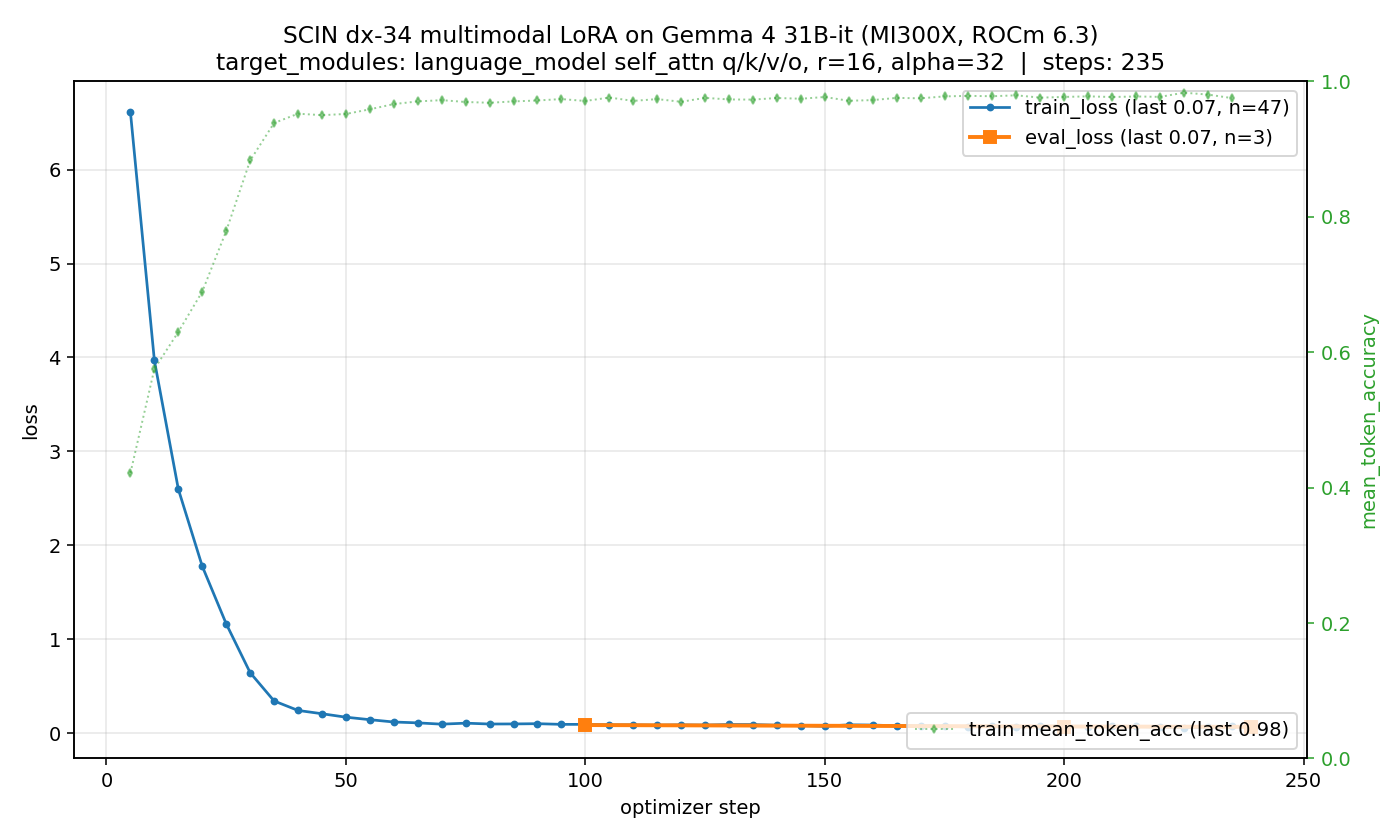
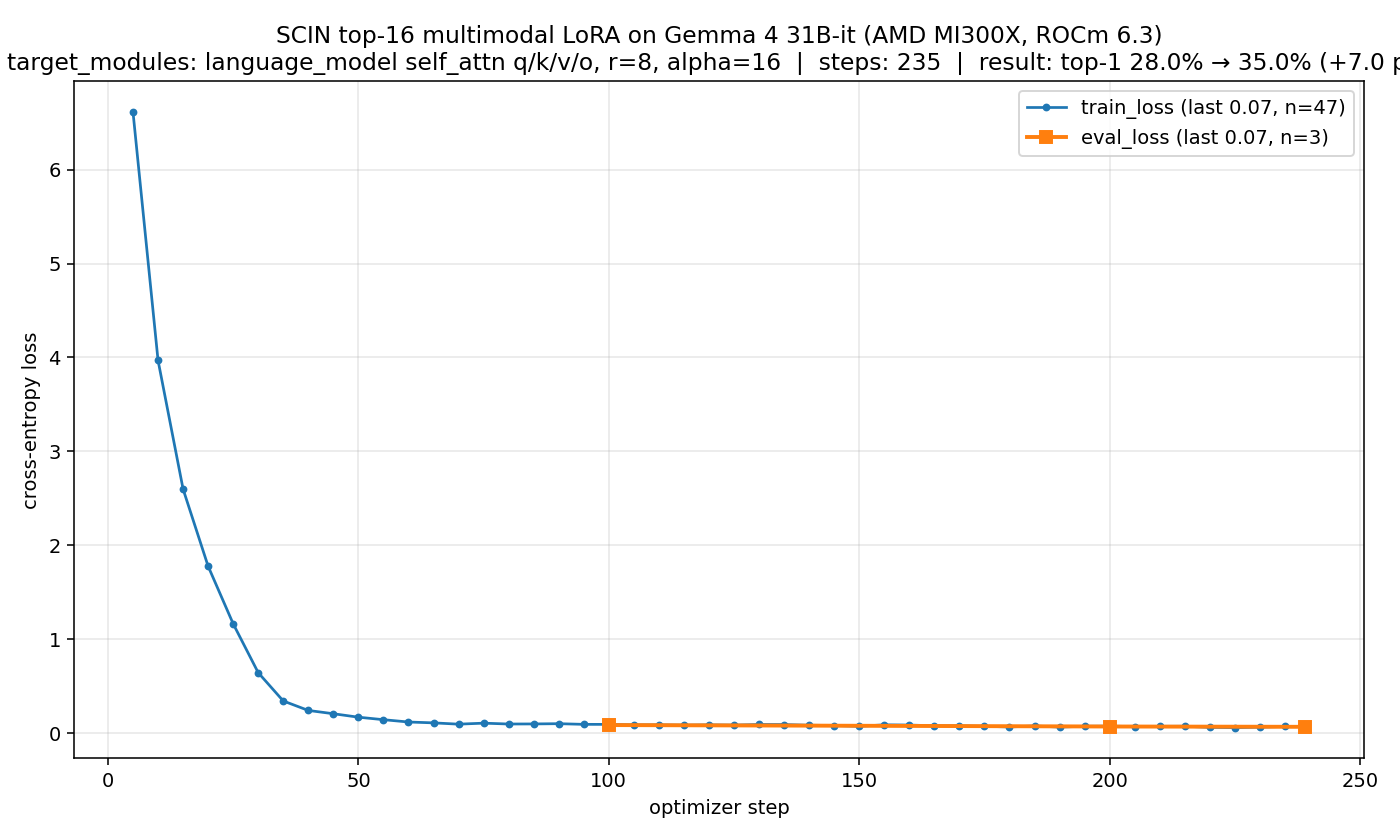
session checkpoint: 2026-05-10 08:16

diff --git a/scripts/plot_scin_loss.py b/scripts/plot_scin_loss.py
@@ -35,25 +35,18 @@ def main() -> int:
                 "-s", label=f"eval_loss (last {evals[-1]['eval_loss']:.2f}, n={len(evals)})",
                 color="#ff7f0e", lw=2)
 
-    # Token-accuracy on a secondary axis if present
-    if any("mean_token_accuracy" in r for r in train):
-        ax2 = ax.twinx()
-        ax2.plot([r["step"] for r in train],
-                 [r.get("mean_token_accuracy", 0) for r in train],
-                 ":d", color="#2ca02c", alpha=0.5,
-                 label=f"train mean_token_acc (last {train[-1].get('mean_token_accuracy', 0):.2f})",
-                 markersize=3, lw=1)
-        ax2.set_ylabel("mean_token_accuracy", color="#2ca02c")
-        ax2.tick_params(axis="y", colors="#2ca02c")
-        ax2.set_ylim(0, 1)
-        ax2.legend(loc="lower right")
+    # Note: mean_token_accuracy is intentionally NOT plotted. It's a token-level
+    # next-token-prediction metric reported by SFTTrainer; it rose to ~95% on
+    # earlier failed runs while actual classification accuracy regressed by 11
+    # points. Plotting it here would overstate how well the model is "learning"
+    # the diagnosis task, which is a classification problem, not a token-LM one.
 
     ax.set_xlabel("optimizer step")
-    ax.set_ylabel("loss")
+    ax.set_ylabel("cross-entropy loss")
     ax.set_title(
-        "SCIN dx-34 multimodal LoRA on Gemma 4 31B-it (MI300X, ROCm 6.3)\n"
-        f"target_modules: language_model self_attn q/k/v/o, r=16, alpha=32  |  "
-        f"steps: {train[-1]['step']}"
+        "SCIN top-16 multimodal LoRA on Gemma 4 31B-it (AMD MI300X, ROCm 6.3)\n"
+        f"target_modules: language_model self_attn q/k/v/o, r=8, alpha=16  |  "
+        f"steps: {train[-1]['step']}  |  result: top-1 28.0% → 35.0% (+7.0 pp)"
     )
     ax.legend(loc="upper right")
     ax.grid(True, alpha=0.3)
